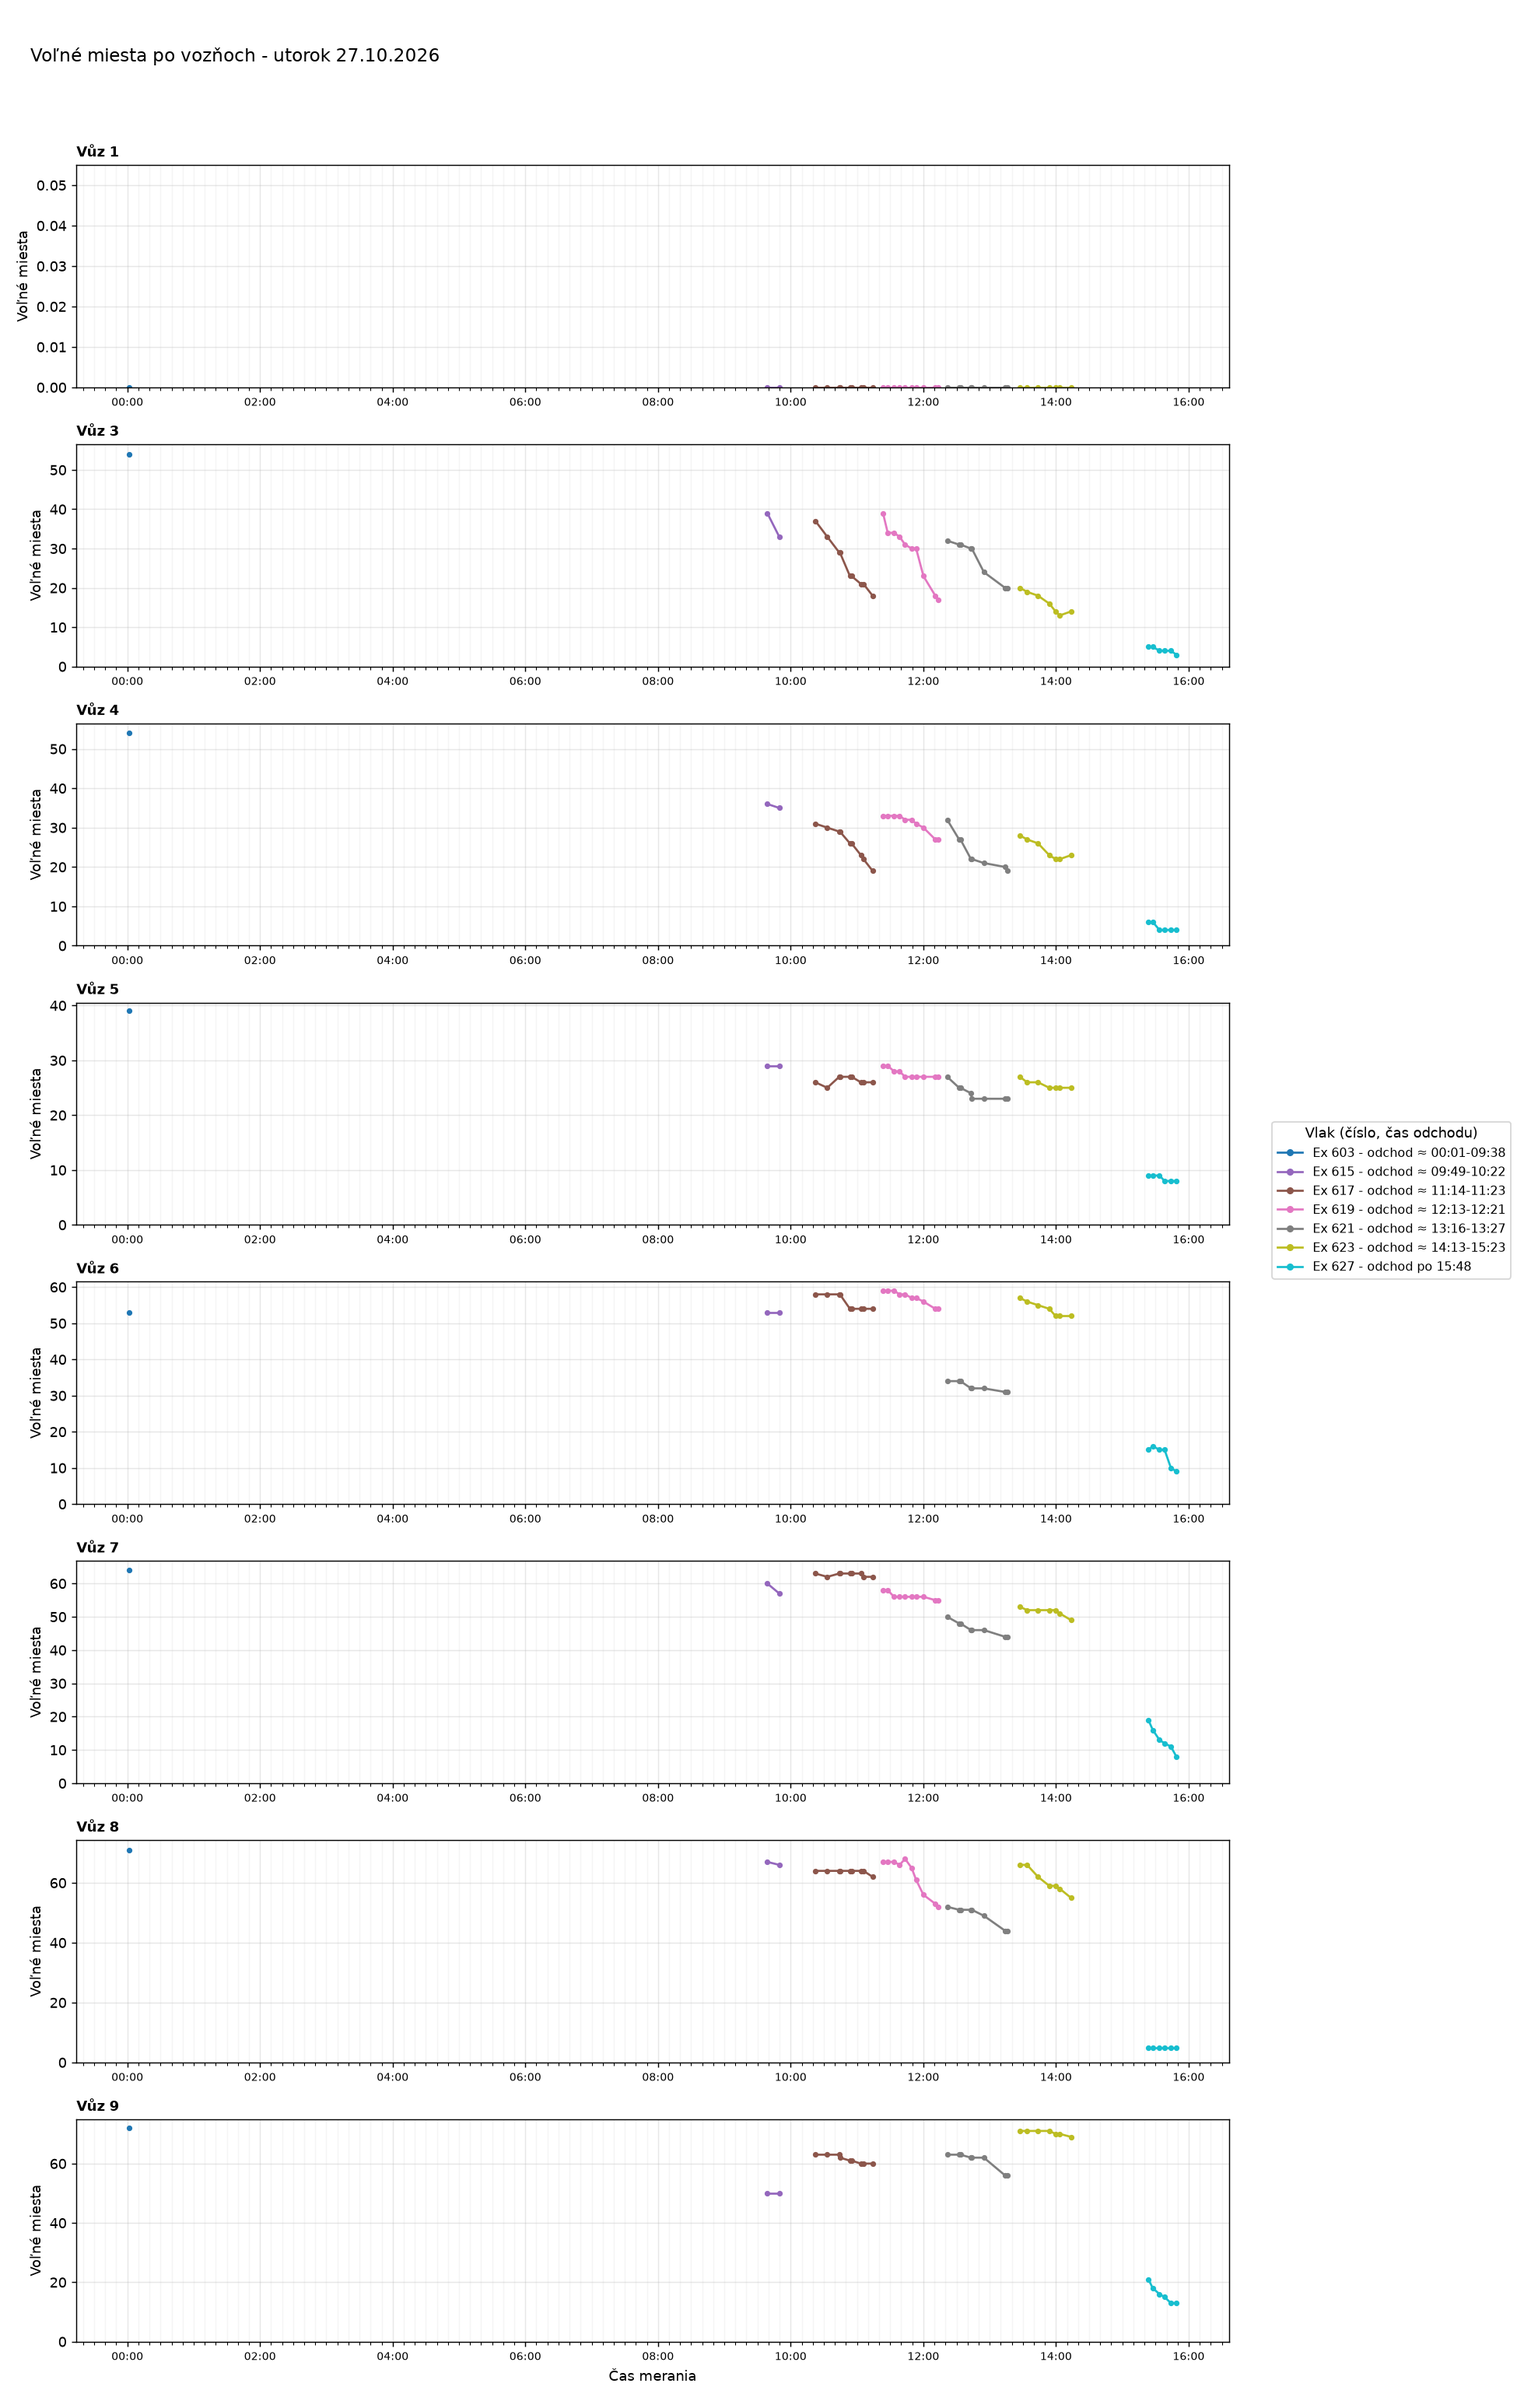
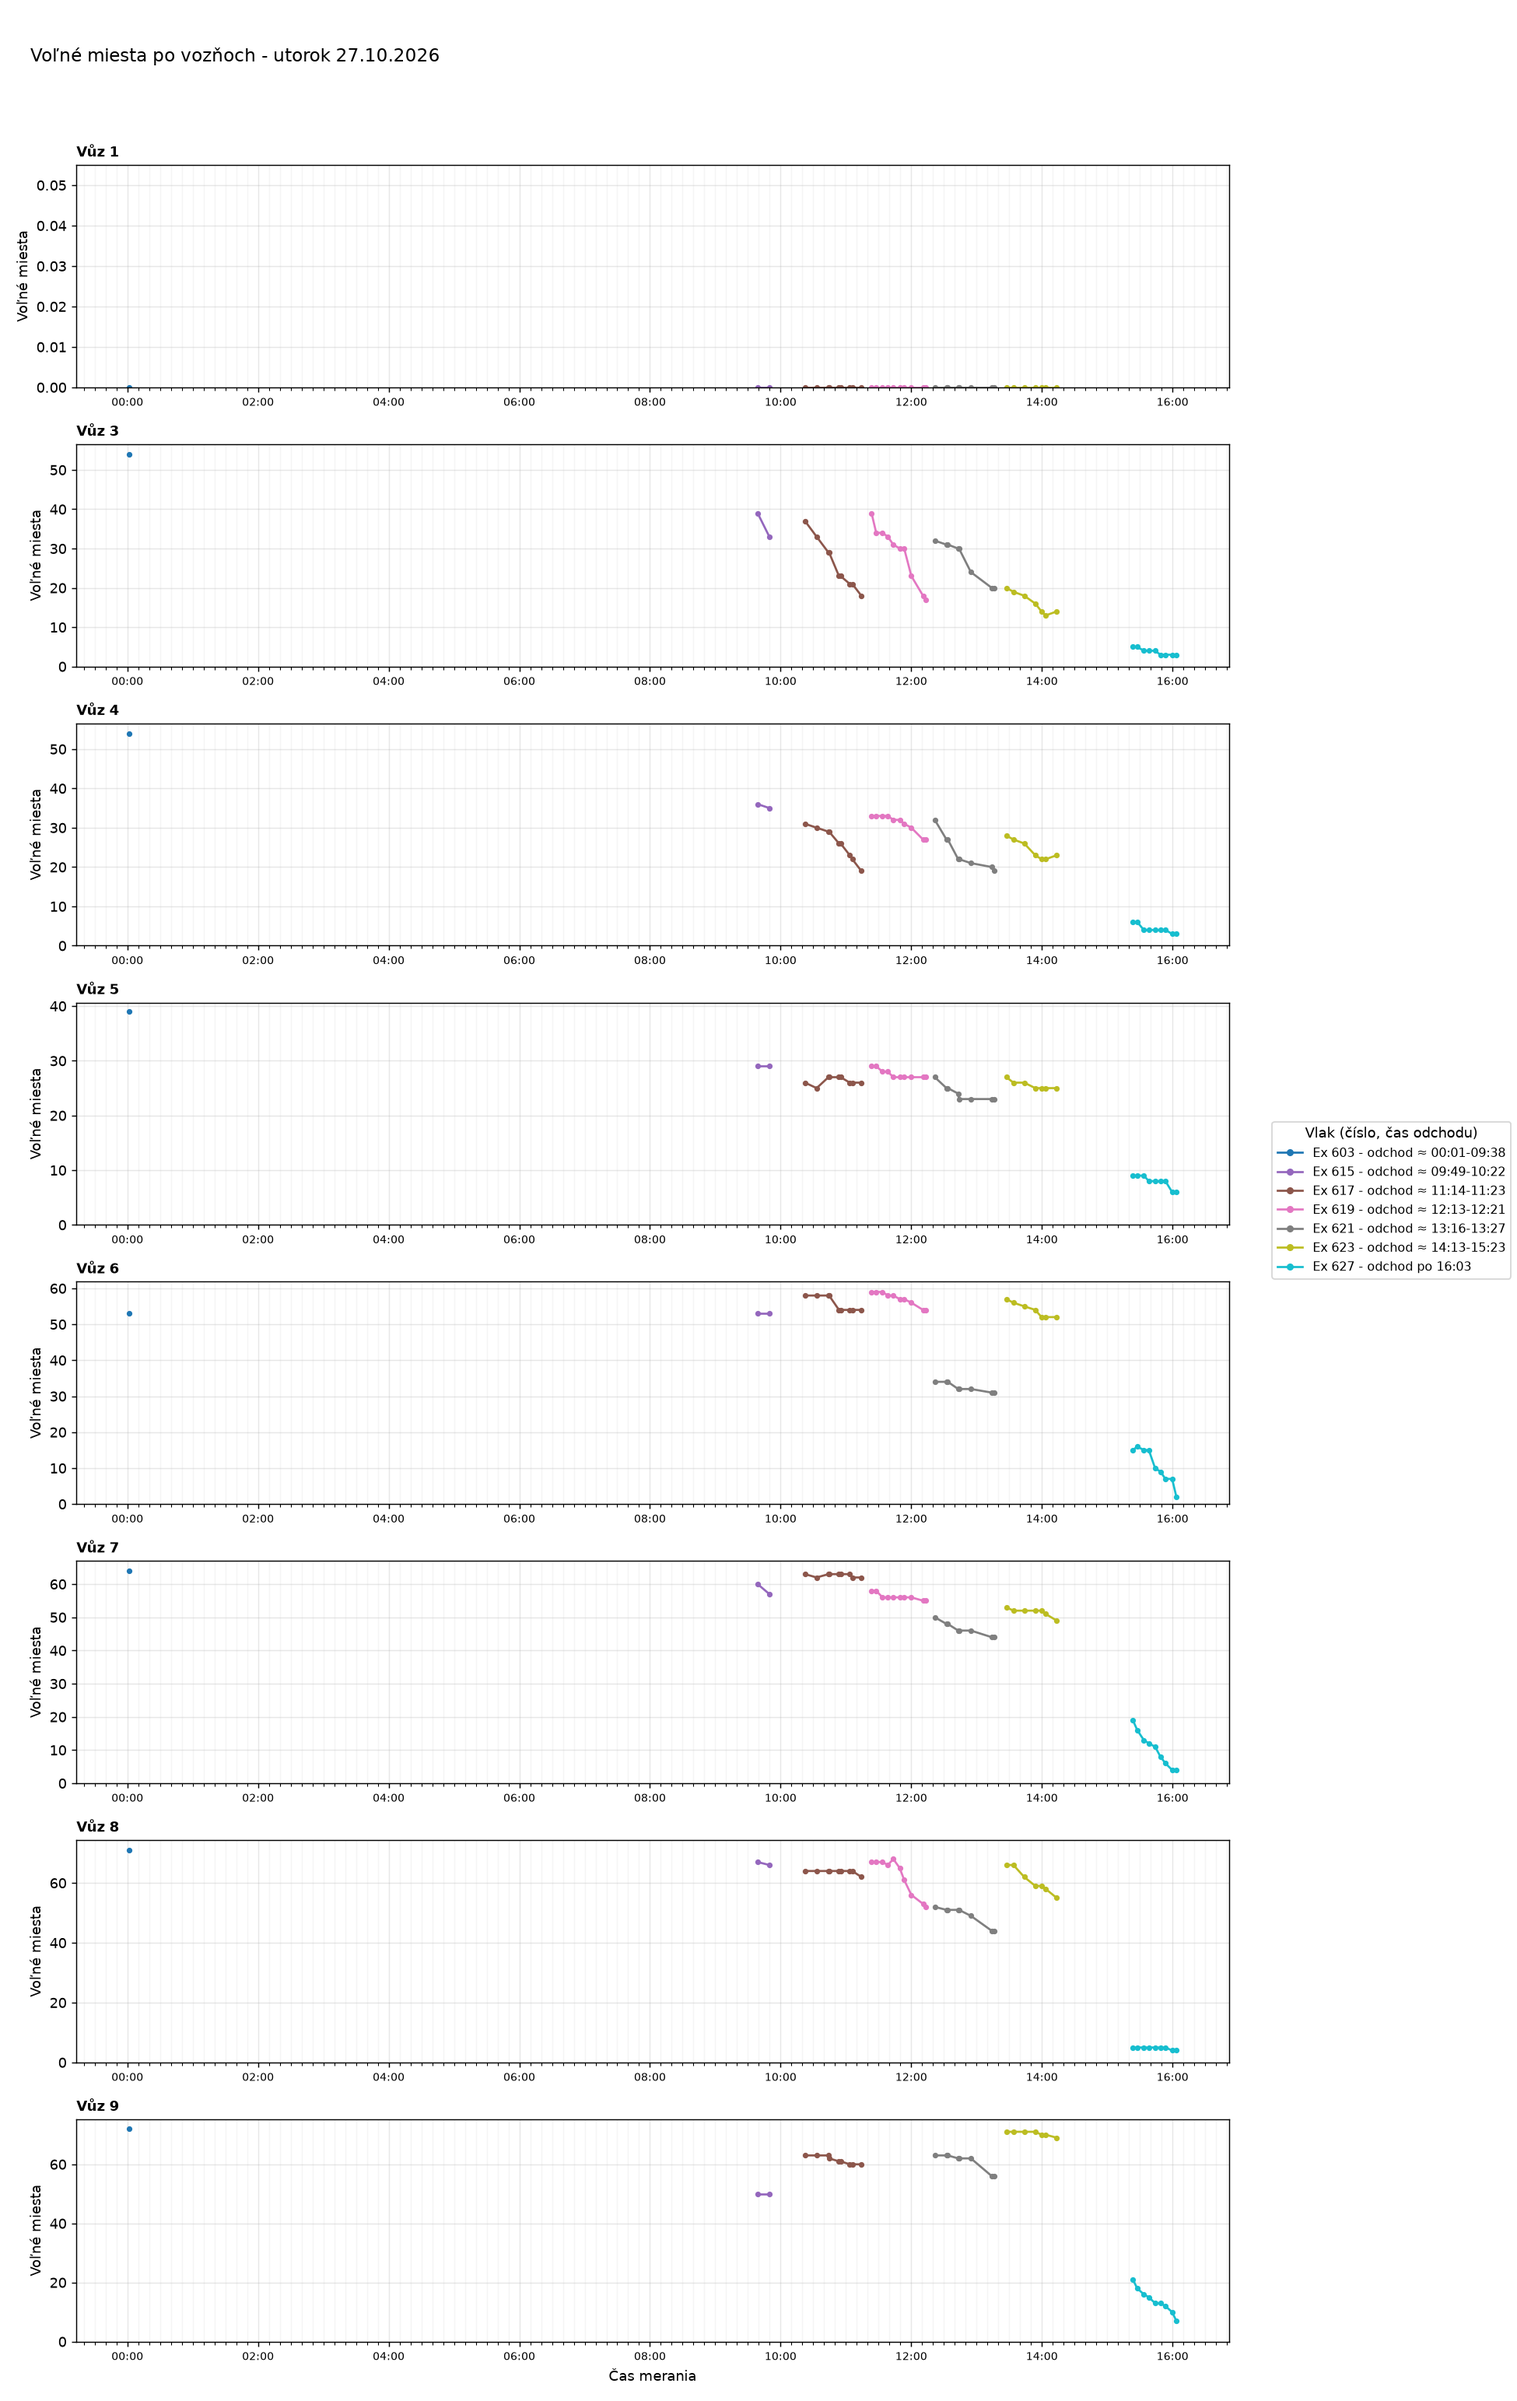
Aktualizácia grafov 2026-10-27 16:08

diff --git a/index.html b/index.html
@@ -35,7 +35,7 @@ h2.oddiel{margin:36px 0 0;font-size:1.4rem}
 <body>
 <main>
 <h1>Voľné miesta vo vlakoch</h1>
-<p class="muted">Posledné meranie: 27.10.2026 15:48 ·
+<p class="muted">Posledné meranie: 27.10.2026 16:03 ·
 <a href="data/obsadenost_data.csv">stiahnuť dáta (CSV)</a></p>
 <nav class="nav"><a href="#suhrn">Súhrn</a><a href="#statistiky">Štatistiky</a><a href="#historia">História grafov</a></nav>
 
@@ -44,7 +44,7 @@ h2.oddiel{margin:36px 0 0;font-size:1.4rem}
 <div class="tablewrap"><table>
 <thead><tr><th>Deň</th><th>Meraní</th><th>Vlakov</th><th>Čas meraní</th></tr></thead>
 <tbody>
-<tr><td><a href="#d2026-10-27">utorok 27.10.2026</a></td><td>43</td><td>7</td><td>00:01-15:48</td></tr>
+<tr><td><a href="#d2026-10-27">utorok 27.10.2026</a></td><td>46</td><td>7</td><td>00:01-16:03</td></tr>
 <tr><td><a href="#d2026-10-26">pondelok 26.10.2026</a></td><td>88</td><td>14</td><td>00:06-23:50</td></tr>
 <tr><td><a href="#d2026-10-25">nedeľa 25.10.2026</a></td><td>101</td><td>15</td><td>00:01-23:56</td></tr>
 <tr><td><a href="#d2026-10-24">sobota 24.10.2026</a></td><td>98</td><td>14</td><td>00:10-23:50</td></tr>
